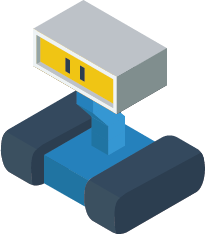
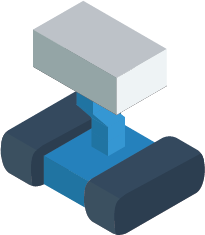
set code direction
change state of codebo and change animation

diff --git a/scripts/codebo.js b/scripts/codebo.js
@@ -4,7 +4,14 @@ function Codebo(x, y, actualx, actualy, classename, z) {
 	w = 50;
 	
 	//animation of codebo
-	sprite = [new Animation( ["codebo_sp1","codebo_sp1","codebo_sp1","codebo_sp2","codebo_sp3","codebo_sp4","codebo_sp5","codebo_sp6"], 0.1)];
+	sprite = [
+		new Animation( ["codebo_sp1","codebo_sp1","codebo_sp1","codebo_sp2","codebo_sp3","codebo_sp4","codebo_sp5","codebo_sp6"], 0.1), 
+		
+		new Animation(["codebo_back_sp1"], 0.1), 
+		new Animation(["codebo_left_sp1"], 0.1), 
+		
+		new Animation(["codebo_right_sp1","codebo_right_sp2","codebo_right_sp3","codebo_right_sp4","codebo_right_sp5","codebo_right_sp6"], 0.1)  
+	];
 	
 	this.actions;
 	this.actualaction = -1;
@@ -22,6 +29,16 @@ function Codebo(x, y, actualx, actualy, classename, z) {
 	this.startactualy = actualy;
 	
 	
+	this.directions = {
+		FRONT : 0,
+		BACK : 1,
+		LEFT : 2,
+		RIGHT : 3
+	}
+	
+	this.actualdirection = this.directions.FRONT; 
+	
+	
 	GameObject.call(this, sprite, x, y, classename, h,w, 0, z);
    
 }
@@ -29,8 +46,15 @@ function Codebo(x, y, actualx, actualy, classename, z) {
 //fazendo herança
 Codebo.prototype = Object.create(GameObject.prototype);
 
-
 Codebo.prototype.update = function () {};
+Codebo.prototype.reset = function () {
+	
+	this.stopCommands();
+    this.startPosition();
+	this.setAnimationByIndex(0);
+	this.actualdirection = this.directions.FRONT;
+	  
+};
 
 Codebo.prototype.setCommands = function (actions, map) {
 	
@@ -47,14 +71,13 @@ Codebo.prototype.runCommands = function () {
 	var action = actions[this.actualaction];
 	
 	console.log(this.actualaction);
+	console.log(action);
 	
 	if(action == "forward"){
 		
-		//diagonal (o if é necessario por conta da codificacao do map, nas linhas pares os blocos seguem no mesmo padrao da px linha. No caso de impares isso n ocorre);
-		
-		
 		//mudar animação
-		if(this.actualx%2 == 0){
+		
+		//if(this.actualx%2 == 0){
 			
 			if(this.map[this.actualx+1][this.actualy] == this.getLevel() ){
 				
@@ -65,7 +88,7 @@ Codebo.prototype.runCommands = function () {
 				this.actualy;
 			}
 			
-		}else{
+		/*}else{
 			
 			if(this.map[this.actualx+1][this.actualy+1]  == this.getLevel()){
 				
@@ -75,7 +98,7 @@ Codebo.prototype.runCommands = function () {
 				this.actualx+=1;
 				this.actualy+=1;
 			}
-		}
+		}*/
 		//pensar no que fazer se ele cair na agua (0)
 		
 	}else if(action == "backward"){
@@ -83,7 +106,7 @@ Codebo.prototype.runCommands = function () {
 		//todo 
 		//mudar animação
 		
-		if(this.actualx%2 != 0){
+		//if(this.actualx%2 != 0){
 			
 			if(this.map[this.actualx-1][this.actualy] == this.getLevel() ){
 				
@@ -94,7 +117,7 @@ Codebo.prototype.runCommands = function () {
 				this.actualy;
 			}
 			
-		}else{
+		/*}else{
 			
 			if(this.map[this.actualx-1][this.actualy-1]  == this.getLevel()){
 				
@@ -104,18 +127,48 @@ Codebo.prototype.runCommands = function () {
 				this.actualx-=1;
 				this.actualy-=1;
 			}
-		}
+		} */
 		
 		
 	}else if(action == "left"){
 
-		//todo 
-		//é preciso fazer o mesmo que o forward
+		if(this.actualdirection == this.directions.FRONT){
+			
+			this.setLeftDirection();
+			
+		}else if(this.actualdirection == this.directions.LEFT){
+			
+			this.setBackDirection();
+			
+		}else if(this.actualdirection == this.directions.RIGHT){
+			
+			this.setFrontDirection();
+			
+		}else if(this.actualdirection == this.directions.BACK){
+			
+			this.setRightDirection();
+		}		
 		
 
 	}else if(action == "right"){
-		//todo 
-		//é preciso fazer o mesmo que o forward
+		
+		if(this.actualdirection == this.directions.FRONT){
+			
+			this.setRightDirection();
+			
+		}else if(this.actualdirection == this.directions.RIGHT){
+			
+			this.setBackDirection();
+			
+		}else if(this.actualdirection == this.directions.BACK){
+			
+			this.setLeftDirection();
+			
+		}else if(this.actualdirection == this.directions.LEFT){
+			
+			this.setFrontDirection();
+		}	
+		
 	}
 	
 
@@ -174,4 +227,27 @@ Codebo.prototype.startPosition = function () {
 	this.y = this.starty;
 	
 };
+
+
+Codebo.prototype.setLeftDirection = function(){
+	this.actualdirection = this.directions.LEFT;
+	this.setAnimationByIndex(2);
+}
+
+Codebo.prototype.setRightDirection = function(){
+	this.actualdirection = this.directions.RIGHT; 
+	this.setAnimationByIndex(3);
+}
+
+Codebo.prototype.setFrontDirection = function(){
+	
+	this.actualdirection = this.directions.FRONT; 
+	this.setAnimationByIndex(0);
+}
+
+Codebo.prototype.setBackDirection = function(){
+	
+	this.actualdirection = this.directions.BACK; 
+	this.setAnimationByIndex(1);
+}
 

diff --git a/scripts/mygame.js b/scripts/mygame.js
@@ -20,15 +20,15 @@ se.setResources = function () {
   );
 
   //sprites CodeBo pra direita
-  this.loader.addResource('codebo_right_sp1', 'codebo/right/sp1.png', 'image');
+  this.loader.addResource('codebo_left_sp1', 'codebo/left/sp1.png', 'image');
 
   //sprites CodeBo pra esquerda
-  this.loader.addResource('codebo_left_sp1', 'codebo/left/sp1.png', 'image');
-  this.loader.addResource('codebo_left_sp2', 'codebo/left/sp2.png', 'image');
-  this.loader.addResource('codebo_left_sp3', 'codebo/left/sp3.png', 'image');
-  this.loader.addResource('codebo_left_sp4', 'codebo/left/sp4.png', 'image');
-  this.loader.addResource('codebo_left_sp5', 'codebo/left/sp5.png', 'image');
-  this.loader.addResource('codebo_left_sp6', 'codebo/left/sp6.png', 'image');
+  this.loader.addResource('codebo_right_sp1', 'codebo/right/sp1.png', 'image');
+  this.loader.addResource('codebo_right_sp2', 'codebo/right/sp2.png', 'image');
+  this.loader.addResource('codebo_right_sp3', 'codebo/right/sp3.png', 'image');
+  this.loader.addResource('codebo_right_sp4', 'codebo/right/sp4.png', 'image');
+  this.loader.addResource('codebo_right_sp5', 'codebo/right/sp5.png', 'image');
+  this.loader.addResource('codebo_right_sp6', 'codebo/right/sp6.png', 'image');
 
   //sprites blocks
   this.loader.addResource('block_0', 'blocks/block_0.png', 'image');
@@ -197,7 +197,7 @@ se.gameReady = function () {
   var lv1 = new Scene();
 
   xmlmap = new ReaderXMLFile('map_level_1');
-  var arrmap = createArrayMap(xmlmap);
+  arrmap = createArrayMap(xmlmap);
   
   /*mapa, pode ser obtido do arquivo
   var arrmap = [
@@ -282,9 +282,8 @@ function createGUiButton(){
     900,
     10,
     function () {
-      codebo.setCommands(actions, arrmap);
-      codebo.stopCommands();
-      codebo.startPosition();
+      codebo.setCommands(window.actions, window.arrmap);
+      codebo.reset();
       setTimeout(function () {
         codebo.runCommands();
       }, 100);

diff --git a/starterjs/starterJS-0.1.x.js b/starterjs/starterJS-0.1.x.js
@@ -279,6 +279,41 @@ GameObject.prototype.setAnimation = function(animations){
 		
 }
 
+
+
+/**
+* Seleciona a animação baseado no index passado
+* @param {int} - index
+*/
+GameObject.prototype.setAnimationByIndex = function(index){
+	this.currentAnimation = index;
+}
+
+
+/**
+* Vai para a próxima animação
+*/
+GameObject.prototype.nextAnimation = function(){
+
+    if(this.currentAnimation < this.animation.length)
+        this.currentAnimation++;
+    else
+        this.currentAnimation = 0;
+
+}
+
+
+/**
+* Vai para animação anterior
+*/
+GameObject.prototype.priorAnimation = function(){
+    if(this.currentAnimation > 0)
+        this.currentAnimation--;
+    else
+        this.currentAnimation =  this.animation.length-1;
+}
+
+
 /**
  * Atualiza a tag do objeto
  * @param {tag} string  - tag de um objeto

diff --git a/scripts/map.js b/scripts/map.js
@@ -27,7 +27,7 @@ Map.prototype.create = function () {
 	
 				//ok
 				}else if(this.map[i][j] == 1){
-					console.log( "x = " + j, "y = " + i);
+					//console.log( "x = " + j, "y = " + i);
 					
 					var x = j; 
 					var y = i;
